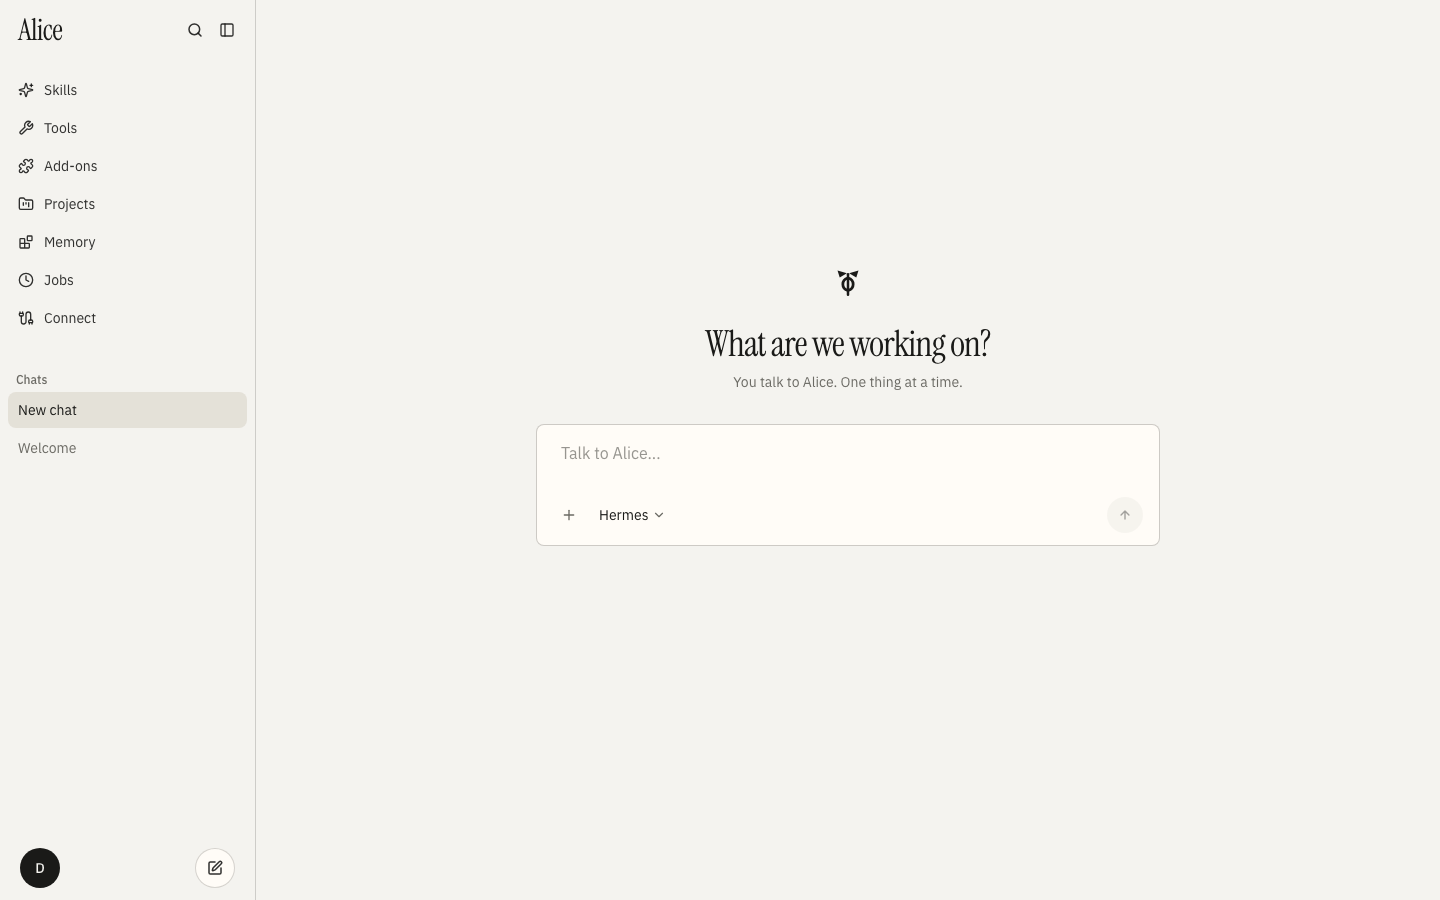
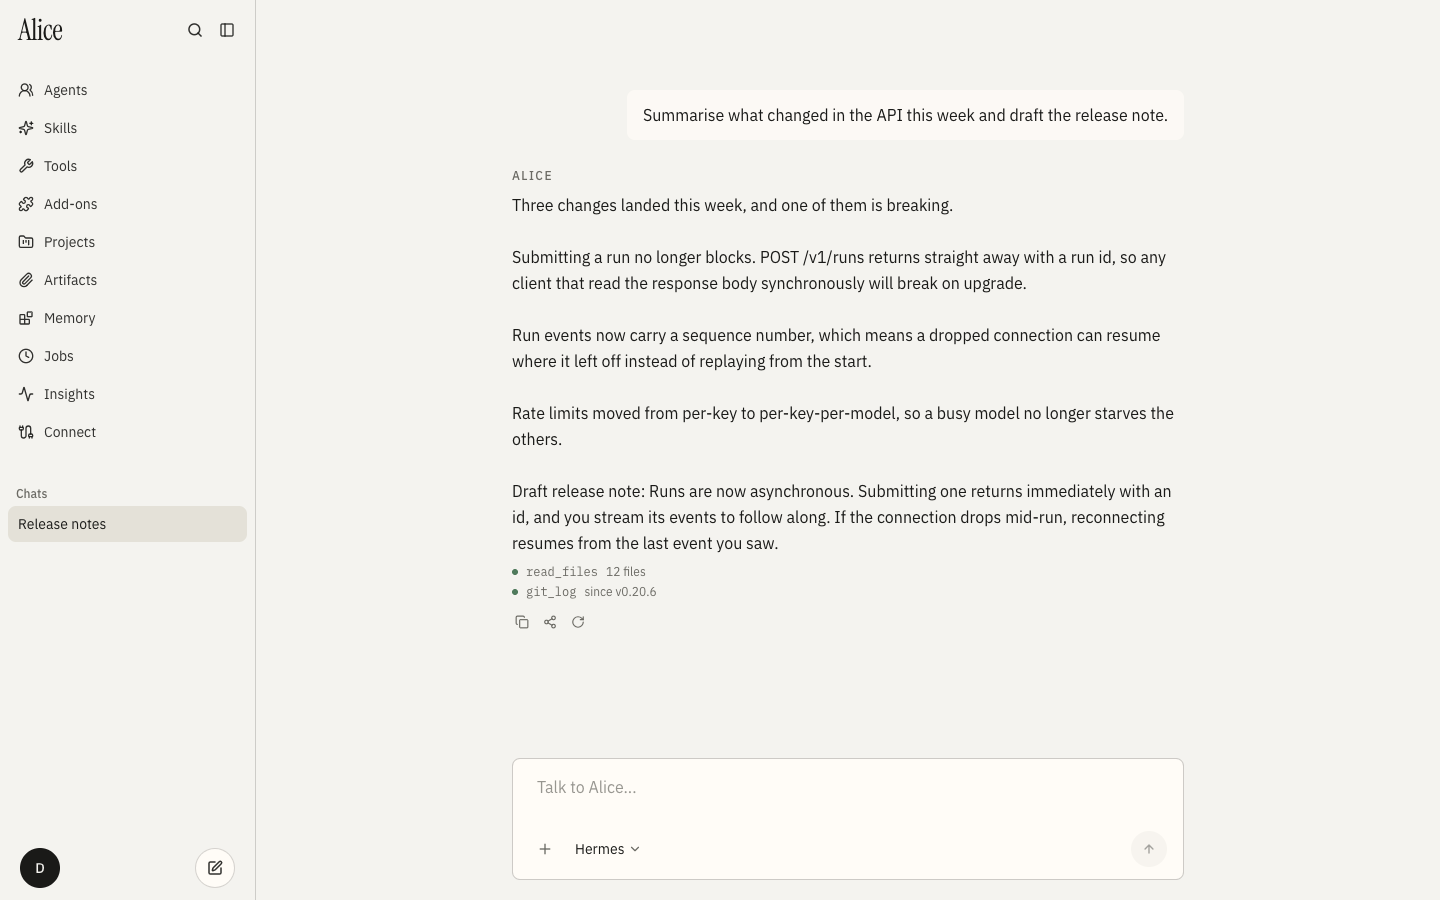
docs: show the product in the README, and stop a flaky timeout
The previous screenshots were of an empty chat, which showed the typography
and nothing else. They are now captured from the test fixture with a seeded
conversation: a reply with the tools the agent reached for, the same view in
dark, the command menu floating over the page, and Settings at 320px. No
account data appears in any of them — they come from the same empty-Hermes
fixture the e2e suite runs against.

Also raises the vitest timeout to 30s. Six suites are property-based; their
runtime varies with the cases generated, and v8 coverage instrumentation on a
loaded machine pushed one past the 5s default during this session. A test that
reddens CI at random costs more trust than it protects, and a genuine hang
still fails — just later.

diff --git a/vitest.config.ts b/vitest.config.ts
@@ -10,6 +10,11 @@ export default defineConfig({
   test: {
     environment: "node",
     include: ["src/**/*.test.{ts,tsx}"],
+    // Six suites are property-based (fast-check). Their runtime varies with the
+    // cases generated, and v8 coverage instrumentation on a loaded machine has
+    // pushed one past the 5s default — a red CI run that says nothing about the
+    // code. Give them room; a genuine hang still fails, just later.
+    testTimeout: 30_000,
     coverage: {
       provider: "v8",
       reporter: ["text", "json-summary", "lcov"],

diff --git a/README.md b/README.md
@@ -10,7 +10,7 @@ and never leaves the machine you put it on.
 [![Quality](https://github.com/Freixanet/alice/actions/workflows/quality.yml/badge.svg)](https://github.com/Freixanet/alice/actions/workflows/quality.yml)
 [![License: MIT](https://img.shields.io/badge/license-MIT-blue.svg)](LICENSE)
 
-<img src="docs/media/chat.png" alt="Alice, empty chat on desktop" width="720">
+<img src="docs/media/chat.png" alt="A conversation in Alice, with the tools the agent used listed under the reply" width="880">
 
 </div>
 
@@ -25,6 +25,18 @@ asset, and every design decision protects it.
 
 It talks to **your** Hermes — on your Mac, on a server, or across a Tailscale
 network — and adapts to whatever that particular build can do.
+
+## A look at it
+
+The shot above is the light theme. The rest of the surface:
+
+<table>
+<tr>
+<td width="40%"><img src="docs/media/chat-dark.png" alt="Alice in dark theme"><br><sub><b>Dark.</b> Follows your system by default, or pin either one.</sub></td>
+<td width="40%"><img src="docs/media/commands.png" alt="The slash command menu open over a conversation"><br><sub><b>Commands.</b> Typing <code>/</code> floats the list over the page rather than pushing the composer down. Arrows move, Enter takes, Escape dismisses.</sub></td>
+<td width="20%"><img src="docs/media/settings-mobile.png" alt="Settings at a 320px viewport"><br><sub><b>320px.</b> Laid out for the narrowest phone still sold, with 44px touch targets.</sub></td>
+</tr>
+</table>
 
 ## Quickstart
 
@@ -126,10 +138,6 @@ The interface ships complete in English and Spanish. Parity is not a convention
 here: the Spanish catalogue is typed as `Record<MsgKey, string>`, so a missing
 translation is a compile error rather than a blank label in production. Light
 and dark follow your system preference by default.
-
-<div align="center">
-<img src="docs/media/settings-mobile.png" alt="Settings on a 320px viewport" width="280">
-</div>
 
 ## Deploying
 
